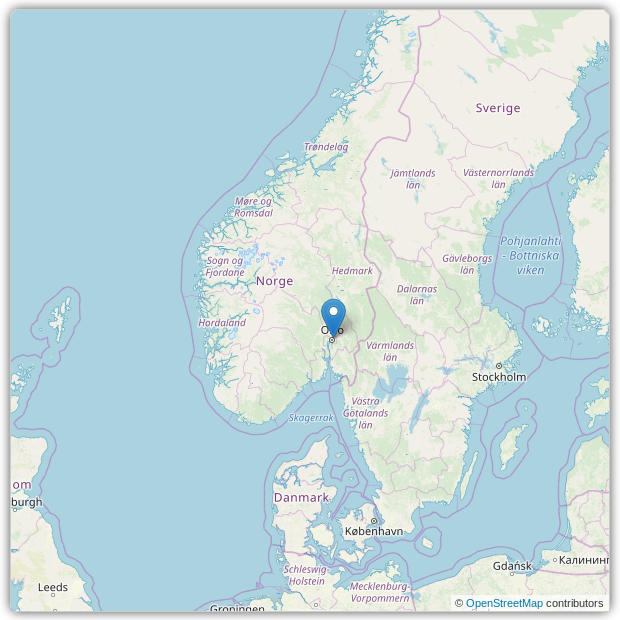
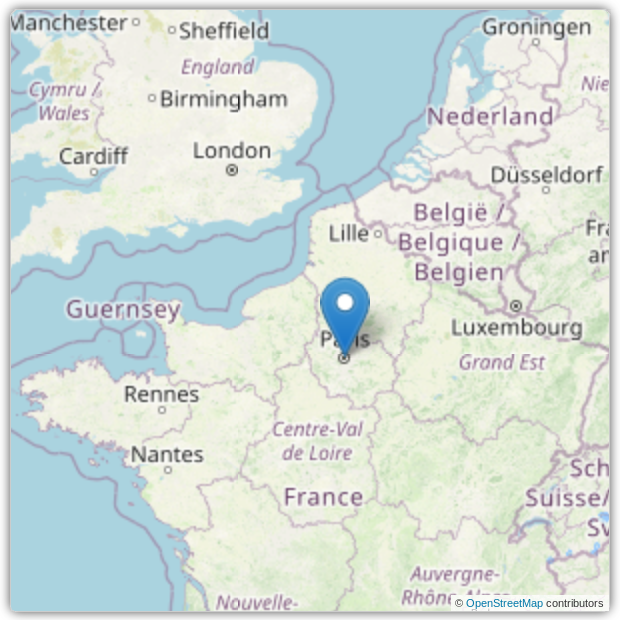
Updating map

diff --git a/content/contact/map.html b/content/contact/map.html
@@ -8,6 +8,6 @@
   </head>
 
   <body>
-    <iframe id="map" scrolling="no" src="https://www.openstreetmap.org/export/embed.html?bbox=5.5555%2C63.6363%2C12.1212%2C57.1111&amp;layer=mapnik&amp;marker=59.9229%2C10.7584"></iframe>
+      <iframe id="map" src="https://www.openstreetmap.org/export/embed.html?bbox=-16.018%2C41.860%2C20.676%2C55.008&amp;layer=mapnik&amp;marker=48.863%2C2.330"></iframe>
   </body>
 </html>
